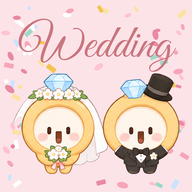
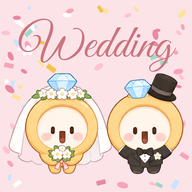
신부 반지링 베일 잘림 수정
Claude-Session: https://claude.ai/code/session_011nUT2jvPTHRHkT69G7nQeK

Changed region(s): [[0.0312, 0.375, 0.9688, 0.9062]]

diff --git a/assets/index-pwa-CAAoumdT.js b/assets/index-pwa-CAAoumdT.js
@@ -1,4 +1,4 @@
-(function(){let e=document.createElement(`link`).relList;if(e&&e.supports&&e.supports(`modulepreload`))return;for(let e of document.querySelectorAll(`link[rel="modulepreload"]`))n(e);new MutationObserver(e=>{for(let t of e)if(t.type===`childList`)for(let e of t.addedNodes)e.tagName===`LINK`&&e.rel===`modulepreload`&&n(e)}).observe(document,{childList:!0,subtree:!0});function t(e){let t={};return e.integrity&&(t.integrity=e.integrity),e.referrerPolicy&&(t.referrerPolicy=e.referrerPolicy),t.credentials=e.crossOrigin===`use-credentials`?`include`:e.crossOrigin===`anonymous`?`omit`:`same-origin`,t}function n(e){if(e.ep)return;e.ep=!0;let n=t(e);fetch(e.href,n)}})();var e=new URL(`hi-Cj1TeUIU.webp`,import.meta.url).href,t=new URL(`cheer-CTkT-2d9.webp`,import.meta.url).href,n=new URL(`sleep-D8qlL5Zz.webp`,import.meta.url).href,r=new URL(`think-CUr7WjlF.webp`,import.meta.url).href,i=new URL(`bride-CEqld_eg.webp`,import.meta.url).href,a=new URL(`groom-CQfb-5fD.webp`,import.meta.url).href,o=new URL(`wink-DknxS0_G.webp`,import.meta.url).href,s=new URL(`heart-D_9B21rj.webp`,import.meta.url).href,c=new URL(`wave-2UFk1o7h.webp`,import.meta.url).href,l=new URL(`splash-art-UoKu1fw6.webp`,import.meta.url).href,u={hi:e,cheer:t,sleep:n,think:r,bride:i,groom:a,wink:o,heart:s,wave:c},d=[{id:`mint`,name:`민트`,c:`#17A88A`,d:`#4FD1B2`,soft:`#E3F6F1`,dsoft:`#173A33`},{id:`coral`,name:`코랄`,c:`#EE7240`,d:`#FF9D6E`,soft:`#FDEEE6`,dsoft:`#43281C`},{id:`rose`,name:`로즈`,c:`#D45C7E`,d:`#F08DAA`,soft:`#FBEAEF`,dsoft:`#45263A`},{id:`blue`,name:`블루`,c:`#3E72EC`,d:`#7FA5FF`,soft:`#E8EFFD`,dsoft:`#1E2B4A`},{id:`lavender`,name:`라벤더`,c:`#7C62D6`,d:`#B3A0F5`,soft:`#EFEBFB`,dsoft:`#2E2747`},{id:`black`,name:`블랙`,c:`#26262B`,d:`#EDEDF0`,soft:`#EFEFF1`,dsoft:`#2C2C31`}],f=`wn-accent`;function p(){try{return localStorage.getItem(f)||`mint`}catch{return`mint`}}var m=()=>{let e=document.documentElement.dataset.theme;return e?e===`dark`:matchMedia(`(prefers-color-scheme: dark)`).matches};function h(e=p(),t=!1){let n=d.find(t=>t.id===e)||d[0],r=document.documentElement,i=m(),a=i?n.d:n.c;r.dataset.accent=n.id,r.style.setProperty(`--accent`,a),r.style.setProperty(`--accent-soft`,i?n.dsoft:n.soft),r.style.setProperty(`--on-accent`,i?`#111`:`#fff`),r.style.setProperty(`--grad`,a);for(let e in u)r.style.setProperty(`--m-`+e,`url("${u[e]}")`);if(t)try{localStorage.setItem(f,n.id)}catch{}let o=document.querySelector(`meta[name="theme-color"]:not([media])`)||Object.assign(document.head.appendChild(document.createElement(`meta`)),{name:`theme-color`});return o.content=i?`#121214`:`#FFFFFF`,n}try{matchMedia(`(prefers-color-scheme: dark)`).addEventListener(`change`,()=>h())}catch{}var g=(e,t=`mascot`)=>`<span class="${t} m-${e}" aria-hidden="true"></span>`,_=[`잘했어요!`,`하나 끝!`,`반짝반짝 해냈어요`,`결혼식에 한 걸음 더`,`오늘도 수고했어요`],ee;function v(e,t=!1){document.querySelector(`.cheer`)?.remove(),clearTimeout(ee);let n=document.createElement(`div`);n.className=`cheer`,n.setAttribute(`role`,`status`),n.innerHTML=`${g(`cheer`)}<b>${e||_[Math.floor(Math.random()*_.length)]}</b>`,document.body.appendChild(n),ee=setTimeout(()=>n.remove(),t?2600:1900),T(t),D(t)}var y=(e,t)=>{try{let n=localStorage.getItem(e);return n===null?t:n===`1`}catch{return t}},b={get confetti(){return y(`wn-fx`,!0)},set confetti(e){try{localStorage.setItem(`wn-fx`,e?`1`:`0`)}catch{}},get sound(){return y(`wn-sound`,!0)},set sound(e){try{localStorage.setItem(`wn-sound`,e?`1`:`0`)}catch{}}},x=()=>matchMedia(`(prefers-reduced-motion: reduce)`).matches,S,C,w=[];function T(e=!1){if(!b.confetti||x())return;S||(S=document.createElement(`canvas`),S.className=`fx-canvas`,S.setAttribute(`aria-hidden`,`true`)),S.isConnected||document.body.appendChild(S);let t=Math.min(2,devicePixelRatio||1),n=innerWidth,r=innerHeight;S.width=n*t,S.height=r*t;let i=S.getContext(`2d`);i.setTransform(t,0,0,t,0,0);let a=[`#F6A5B8`,`#FFD1DC`,`#F4C451`,`#FFFFFF`,getComputedStyle(document.documentElement).getPropertyValue(`--accent`).trim()||`#17A88A`,`#C9E4FF`,`#FBE2A4`],o=e?150:70;for(let t=0;t<o;t++){let i=t%2==0,o=i?-10:n+10,s=r*(.72+Math.random()*.12),c=Math.PI/2*-1+(i?1:-1)*(.25+Math.random()*.55),l=(e?15:12)+Math.random()*(e?9:7),u=Math.random()<.38?`petal`:Math.random()<.5?`rect`:`dot`;w.push({x:o,y:s,vx:Math.cos(c)*l,vy:Math.sin(c)*l,r:Math.random()*Math.PI*2,vr:(Math.random()-.5)*.3,s:u===`petal`?7+Math.random()*6:4+Math.random()*4,c:u===`petal`?[`#F6A5B8`,`#FFD1DC`,`#FFC2D1`,`#FFFFFF`][t%4]:a[t%a.length],k:u,t:0,life:110+Math.random()*60,sw:Math.random()*6})}if(C)return;let s=()=>{i.clearRect(0,0,n,r),w=w.filter(e=>e.t<e.life&&e.y<r+40);for(let e of w)e.t++,e.vy+=.32,e.vx*=.985,e.vy*=.985,e.k===`petal`&&(e.vy=Math.min(e.vy,2.2),e.x+=Math.sin((e.t+e.sw*10)/12)*.9),e.x+=e.vx,e.y+=e.vy,e.r+=e.vr,i.save(),i.globalAlpha=Math.min(1,(e.life-e.t)/30),i.translate(e.x,e.y),i.rotate(e.r),i.fillStyle=e.c,e.k===`petal`?(i.beginPath(),i.ellipse(0,0,e.s,e.s*.55,0,0,Math.PI*2),i.fill(),i.fillStyle=`rgba(255,255,255,.5)`,i.beginPath(),i.ellipse(-e.s*.3,-e.s*.1,e.s*.35,e.s*.15,0,0,Math.PI*2),i.fill()):e.k===`rect`?(i.scale(1,Math.cos(e.t/5)),i.fillRect(-e.s/2,-e.s*.8,e.s,e.s*1.6)):(i.beginPath(),i.arc(0,0,e.s/2,0,Math.PI*2),i.fill()),e.c===`#FFFFFF`&&(i.strokeStyle=`rgba(0,0,0,.08)`,i.lineWidth=1,i.stroke()),i.restore();w.length?C=requestAnimationFrame(s):(C=null,i.clearRect(0,0,n,r),S.remove())};C=requestAnimationFrame(s)}var E;function D(e=!1){if(b.sound)try{E=E||new(window.AudioContext||window.webkitAudioContext),E.state===`suspended`&&E.resume();let t=E.currentTime+.01,n=e?[[523,0,.12],[659,.12,.12],[784,.24,.12],[1047,.38,.5]]:[[784,0,.1],[1047,.1,.3]],r=E.createGain();r.gain.value=.12,r.connect(E.destination);for(let[e,i,a]of n)for(let[n,o,s]of[[`triangle`,1,1],[`sine`,2,.3]]){let c=E.createOscillator(),l=E.createGain();c.type=n,c.frequency.value=e*o,l.gain.setValueAtTime(0,t+i),l.gain.linearRampToValueAtTime(s,t+i+.015),l.gain.exponentialRampToValueAtTime(.001,t+i+a+.25),c.connect(l),l.connect(r),c.start(t+i),c.stop(t+i+a+.3)}}catch{}}h();function O({title:e,sub:t=``,pose:n=`hi`,button:r=`시작하기`,party:i=!1}={}){return new Promise(n=>{let a=document.createElement(`div`);a.className=`splash`,a.setAttribute(`role`,`dialog`),a.setAttribute(`aria-label`,e.replace(/<[^>]+>/g,` `)),a.innerHTML=`<i class="sp-s a">✦</i><i class="sp-s b">♥</i><i class="sp-s c">✦</i><i class="sp-s d">♥</i><i class="sp-s e">✦</i>
+(function(){let e=document.createElement(`link`).relList;if(e&&e.supports&&e.supports(`modulepreload`))return;for(let e of document.querySelectorAll(`link[rel="modulepreload"]`))n(e);new MutationObserver(e=>{for(let t of e)if(t.type===`childList`)for(let e of t.addedNodes)e.tagName===`LINK`&&e.rel===`modulepreload`&&n(e)}).observe(document,{childList:!0,subtree:!0});function t(e){let t={};return e.integrity&&(t.integrity=e.integrity),e.referrerPolicy&&(t.referrerPolicy=e.referrerPolicy),t.credentials=e.crossOrigin===`use-credentials`?`include`:e.crossOrigin===`anonymous`?`omit`:`same-origin`,t}function n(e){if(e.ep)return;e.ep=!0;let n=t(e);fetch(e.href,n)}})();var e=new URL(`hi-Cj1TeUIU.webp`,import.meta.url).href,t=new URL(`cheer-CTkT-2d9.webp`,import.meta.url).href,n=new URL(`sleep-D8qlL5Zz.webp`,import.meta.url).href,r=new URL(`think-CUr7WjlF.webp`,import.meta.url).href,i=new URL(`bride-Bi8AItBi.webp`,import.meta.url).href,a=new URL(`groom-CQfb-5fD.webp`,import.meta.url).href,o=new URL(`wink-DknxS0_G.webp`,import.meta.url).href,s=new URL(`heart-D_9B21rj.webp`,import.meta.url).href,c=new URL(`wave-2UFk1o7h.webp`,import.meta.url).href,l=new URL(`splash-art-DpgewMiz.webp`,import.meta.url).href,u={hi:e,cheer:t,sleep:n,think:r,bride:i,groom:a,wink:o,heart:s,wave:c},d=[{id:`mint`,name:`민트`,c:`#17A88A`,d:`#4FD1B2`,soft:`#E3F6F1`,dsoft:`#173A33`},{id:`coral`,name:`코랄`,c:`#EE7240`,d:`#FF9D6E`,soft:`#FDEEE6`,dsoft:`#43281C`},{id:`rose`,name:`로즈`,c:`#D45C7E`,d:`#F08DAA`,soft:`#FBEAEF`,dsoft:`#45263A`},{id:`blue`,name:`블루`,c:`#3E72EC`,d:`#7FA5FF`,soft:`#E8EFFD`,dsoft:`#1E2B4A`},{id:`lavender`,name:`라벤더`,c:`#7C62D6`,d:`#B3A0F5`,soft:`#EFEBFB`,dsoft:`#2E2747`},{id:`black`,name:`블랙`,c:`#26262B`,d:`#EDEDF0`,soft:`#EFEFF1`,dsoft:`#2C2C31`}],f=`wn-accent`;function p(){try{return localStorage.getItem(f)||`mint`}catch{return`mint`}}var m=()=>{let e=document.documentElement.dataset.theme;return e?e===`dark`:matchMedia(`(prefers-color-scheme: dark)`).matches};function h(e=p(),t=!1){let n=d.find(t=>t.id===e)||d[0],r=document.documentElement,i=m(),a=i?n.d:n.c;r.dataset.accent=n.id,r.style.setProperty(`--accent`,a),r.style.setProperty(`--accent-soft`,i?n.dsoft:n.soft),r.style.setProperty(`--on-accent`,i?`#111`:`#fff`),r.style.setProperty(`--grad`,a);for(let e in u)r.style.setProperty(`--m-`+e,`url("${u[e]}")`);if(t)try{localStorage.setItem(f,n.id)}catch{}let o=document.querySelector(`meta[name="theme-color"]:not([media])`)||Object.assign(document.head.appendChild(document.createElement(`meta`)),{name:`theme-color`});return o.content=i?`#121214`:`#FFFFFF`,n}try{matchMedia(`(prefers-color-scheme: dark)`).addEventListener(`change`,()=>h())}catch{}var g=(e,t=`mascot`)=>`<span class="${t} m-${e}" aria-hidden="true"></span>`,_=[`잘했어요!`,`하나 끝!`,`반짝반짝 해냈어요`,`결혼식에 한 걸음 더`,`오늘도 수고했어요`],ee;function v(e,t=!1){document.querySelector(`.cheer`)?.remove(),clearTimeout(ee);let n=document.createElement(`div`);n.className=`cheer`,n.setAttribute(`role`,`status`),n.innerHTML=`${g(`cheer`)}<b>${e||_[Math.floor(Math.random()*_.length)]}</b>`,document.body.appendChild(n),ee=setTimeout(()=>n.remove(),t?2600:1900),T(t),D(t)}var y=(e,t)=>{try{let n=localStorage.getItem(e);return n===null?t:n===`1`}catch{return t}},b={get confetti(){return y(`wn-fx`,!0)},set confetti(e){try{localStorage.setItem(`wn-fx`,e?`1`:`0`)}catch{}},get sound(){return y(`wn-sound`,!0)},set sound(e){try{localStorage.setItem(`wn-sound`,e?`1`:`0`)}catch{}}},x=()=>matchMedia(`(prefers-reduced-motion: reduce)`).matches,S,C,w=[];function T(e=!1){if(!b.confetti||x())return;S||(S=document.createElement(`canvas`),S.className=`fx-canvas`,S.setAttribute(`aria-hidden`,`true`)),S.isConnected||document.body.appendChild(S);let t=Math.min(2,devicePixelRatio||1),n=innerWidth,r=innerHeight;S.width=n*t,S.height=r*t;let i=S.getContext(`2d`);i.setTransform(t,0,0,t,0,0);let a=[`#F6A5B8`,`#FFD1DC`,`#F4C451`,`#FFFFFF`,getComputedStyle(document.documentElement).getPropertyValue(`--accent`).trim()||`#17A88A`,`#C9E4FF`,`#FBE2A4`],o=e?150:70;for(let t=0;t<o;t++){let i=t%2==0,o=i?-10:n+10,s=r*(.72+Math.random()*.12),c=Math.PI/2*-1+(i?1:-1)*(.25+Math.random()*.55),l=(e?15:12)+Math.random()*(e?9:7),u=Math.random()<.38?`petal`:Math.random()<.5?`rect`:`dot`;w.push({x:o,y:s,vx:Math.cos(c)*l,vy:Math.sin(c)*l,r:Math.random()*Math.PI*2,vr:(Math.random()-.5)*.3,s:u===`petal`?7+Math.random()*6:4+Math.random()*4,c:u===`petal`?[`#F6A5B8`,`#FFD1DC`,`#FFC2D1`,`#FFFFFF`][t%4]:a[t%a.length],k:u,t:0,life:110+Math.random()*60,sw:Math.random()*6})}if(C)return;let s=()=>{i.clearRect(0,0,n,r),w=w.filter(e=>e.t<e.life&&e.y<r+40);for(let e of w)e.t++,e.vy+=.32,e.vx*=.985,e.vy*=.985,e.k===`petal`&&(e.vy=Math.min(e.vy,2.2),e.x+=Math.sin((e.t+e.sw*10)/12)*.9),e.x+=e.vx,e.y+=e.vy,e.r+=e.vr,i.save(),i.globalAlpha=Math.min(1,(e.life-e.t)/30),i.translate(e.x,e.y),i.rotate(e.r),i.fillStyle=e.c,e.k===`petal`?(i.beginPath(),i.ellipse(0,0,e.s,e.s*.55,0,0,Math.PI*2),i.fill(),i.fillStyle=`rgba(255,255,255,.5)`,i.beginPath(),i.ellipse(-e.s*.3,-e.s*.1,e.s*.35,e.s*.15,0,0,Math.PI*2),i.fill()):e.k===`rect`?(i.scale(1,Math.cos(e.t/5)),i.fillRect(-e.s/2,-e.s*.8,e.s,e.s*1.6)):(i.beginPath(),i.arc(0,0,e.s/2,0,Math.PI*2),i.fill()),e.c===`#FFFFFF`&&(i.strokeStyle=`rgba(0,0,0,.08)`,i.lineWidth=1,i.stroke()),i.restore();w.length?C=requestAnimationFrame(s):(C=null,i.clearRect(0,0,n,r),S.remove())};C=requestAnimationFrame(s)}var E;function D(e=!1){if(b.sound)try{E=E||new(window.AudioContext||window.webkitAudioContext),E.state===`suspended`&&E.resume();let t=E.currentTime+.01,n=e?[[523,0,.12],[659,.12,.12],[784,.24,.12],[1047,.38,.5]]:[[784,0,.1],[1047,.1,.3]],r=E.createGain();r.gain.value=.12,r.connect(E.destination);for(let[e,i,a]of n)for(let[n,o,s]of[[`triangle`,1,1],[`sine`,2,.3]]){let c=E.createOscillator(),l=E.createGain();c.type=n,c.frequency.value=e*o,l.gain.setValueAtTime(0,t+i),l.gain.linearRampToValueAtTime(s,t+i+.015),l.gain.exponentialRampToValueAtTime(.001,t+i+a+.25),c.connect(l),l.connect(r),c.start(t+i),c.stop(t+i+a+.3)}}catch{}}h();function O({title:e,sub:t=``,pose:n=`hi`,button:r=`시작하기`,party:i=!1}={}){return new Promise(n=>{let a=document.createElement(`div`);a.className=`splash`,a.setAttribute(`role`,`dialog`),a.setAttribute(`aria-label`,e.replace(/<[^>]+>/g,` `)),a.innerHTML=`<i class="sp-s a">✦</i><i class="sp-s b">♥</i><i class="sp-s c">✦</i><i class="sp-s d">♥</i><i class="sp-s e">✦</i>
       <div class="sp-text"><h1>${e}</h1>${t?`<p>${t}</p>`:``}</div>
       <div class="sp-char"><img class="sp-art" src="${l}" alt=""></div>
       <button type="button" class="sp-btn">${r}</button>`,document.body.appendChild(a),requestAnimationFrame(()=>a.classList.add(`in`)),i&&setTimeout(()=>{T(!0),D(!0)},350),a.querySelector(`.sp-btn`).onclick=()=>{a.classList.remove(`in`),a.classList.add(`out`),setTimeout(()=>{a.remove(),n()},320)}})}var k=[`cats`,`items`,`events`,`guests`,`teams`,`meta`],A=`wedding-demo-v1`,te=e=>e==null?e:JSON.parse(JSON.stringify(e)),j=()=>{let e=``;for(let t of crypto.getRandomValues(new Uint8Array(20)))e+=`abcdefghijklmnopqrstuvwxyz0123456789`[t%36];return e},M=(e,t)=>Object.assign(Error(t||e),{code:e}),N=(e,t)=>e+`~`+t;async function ne(){let e=window.claude,t=await(e?.use?.(`db`)??null),n=await(e?.use?.(`user`)??null),r=n?await n.id():null,i=t&&r?`cloud`:`local`,a=i===`cloud`?t.collection(`data/users/`+r):null,o=Object.fromEntries(k.map(e=>[e,new Map])),s=Object.fromEntries(k.map(e=>[e,new Set])),c=new Map,l=!1,u=[],d=(e,t)=>{let n=o[e].get(t);return{id:t,exists:!!n,data:()=>n?te(n):void 0,metadata:{fromCache:!1,hasPendingWrites:!1}}},f=e=>{let t=[...o[e].entries()].sort((e,t)=>e[0]<t[0]?-1:1).map(([e,t])=>({id:e,exists:!0,data:()=>te(t)}));return{docs:t,size:t.length,empty:!t.length,docChanges:()=>[]}},p=null,m=new Set;function h(e,t){m.add(e+`/`+(t??``)),!p&&(p=Promise.resolve().then(()=>{p=null;let e=[...m];m.clear();for(let t of new Set(e.map(e=>e.split(`/`)[0])))for(let e of s[t])try{e(f(t))}catch(e){console.error(e)}for(let t of e){let e=c.get(t);if(e){let[n,r]=t.split(`/`);for(let t of e)try{t(d(n,r))}catch(e){console.error(e)}}}}))}let g=()=>{try{localStorage.setItem(A,JSON.stringify(Object.fromEntries(k.map(e=>[e,Object.fromEntries(o[e])]))))}catch{}},_=()=>{try{let e=JSON.parse(localStorage.getItem(A)||`{}`);for(let t of k)for(let[n,r]of Object.entries(e[t]||{}))o[t].set(n,r)}catch{}},ee=()=>{l=!0,u.splice(0).forEach(e=>e());for(let e of k)h(e)};async function v(e,t,n){if(i!==`cloud`)return g();try{let r=a.doc(N(e,t));n===void 0?await r.delete():await r.set({c:e,i:t,d:n})}catch(e){if(e?.code===`invalid_argument`||e?.code===`not_granted`||e?.code===`revoked`){i=`local`,g();return}throw M(`unavailable`,e?.message)}}async function y(e,t,n){if(!o[e])throw M(`invalid_argument`,`unknown collection `+e);let r=o[e].get(t);n===void 0?o[e].delete(t):o[e].set(t,n),h(e,t);try{await v(e,t,n)}catch(n){throw r===void 0?o[e].delete(t):o[e].set(t,r),h(e,t),n}}let b=(e,t)=>({id:t,path:e+`/`+t,async get(){return l||await new Promise(e=>u.push(e)),d(e,t)},set:n=>y(e,t,te(n)),update:n=>o[e].has(t)?y(e,t,{...o[e].get(t),...te(n)}):Promise.reject(M(`invalid_argument`)),delete:()=>y(e,t,void 0),onSnapshot(n){let r=e+`/`+t;return c.has(r)||c.set(r,new Set),c.get(r).add(n),l&&queueMicrotask(()=>n(d(e,t))),()=>c.get(r)?.delete(n)}}),x=e=>({path:e,doc:t=>b(e,t||j()),async add(t){let n=j();return await y(e,n,te(t)),b(e,n)},async get(){return l||await new Promise(e=>u.push(e)),f(e)},onSnapshot(t){return s[e].add(t),l&&queueMicrotask(()=>t(f(e))),()=>s[e].delete(t)}});return{get mode(){return i},doc(e){let[t,n]=String(e).split(`/`);return b(t,n)},collection:e=>x(e),newId:j,snapshotAll:()=>Object.fromEntries(k.map(e=>[e,Object.fromEntries(o[e])])),async bulkUpsert(e){for(let t of e)o[t.coll]?.set(t.id,te(t.data)),h(t.coll,t.id);if(i===`local`)return g();for(let t=0;t<e.length;t+=8)await Promise.all(e.slice(t,t+8).map(e=>v(e.coll,e.id,e.data)))},async clearAll(){let e=[];for(let t of k)for(let n of o[t].keys())e.push([t,n]);for(let e of k)o[e].clear();if(i===`local`)try{localStorage.removeItem(A)}catch{}else for(let t=0;t<e.length;t+=8)await Promise.all(e.slice(t,t+8).map(([e,t])=>a.doc(N(e,t)).delete().catch(()=>{})))},start(){return new Promise(e=>{if(i===`local`)return _(),ee(),e();let t=!0;a.onSnapshot(n=>{for(let e of k)o[e].clear();for(let e of n.docs){let t=e.data();t&&o[t.c]&&o[t.c].set(t.i,t.d)}if(t)t=!1,ee(),e();else for(let e of k)h(e)},()=>{i=`local`,_(),t&&(t=!1,ee(),e())}),setTimeout(()=>{t&&(t=!1,i=`local`,_(),ee(),e())},12e3)})}}}var re=[{id:`hall`,name:`웨딩홀`,desc:`전문 예식장 · 가장 일반적`,search:`웨딩홀`},{id:`hotel`,name:`호텔`,desc:`격식 있는 연회장`,search:`호텔 웨딩`},{id:`small`,name:`스몰·하우스`,desc:`100명 이하 · 공간 대관`,search:`스몰웨딩`},{id:`outdoor`,name:`야외·가든`,desc:`정원·루프탑 · 날씨 대비 필요`,search:`야외웨딩`},{id:`church`,name:`성당·교회`,desc:`종교 예식 · 피로연 별도`,search:`성당`}],ie=[`웨딩홀`,`호텔 웨딩`,`스몰웨딩`,`하우스웨딩`,`야외웨딩`,`성당`,`교회`,`상견례 식당`],ae=[`서울`,`경기`,`인천`,`부산`,`대구`,`광주`,`대전`,`울산`,`세종`,`강원`,`충북`,`충남`,`전북`,`전남`,`경북`,`경남`,`제주`],P={hall:{hall:45,sdm:12,photo:5,honeymoon:20,guestmgmt:5,etc:13},hotel:{hall:58,sdm:10,photo:4,honeymoon:15,guestmgmt:4,etc:9},small:{hall:30,sdm:15,photo:10,honeymoon:25,guestmgmt:5,etc:15},outdoor:{hall:38,sdm:13,photo:9,honeymoon:22,guestmgmt:5,etc:13},church:{hall:35,sdm:14,photo:7,honeymoon:24,guestmgmt:5,etc:15}},F={hall:`웨딩홀`,hotel:`호텔 연회장`,small:`스몰웨딩 공간`,outdoor:`야외 웨딩 장소`,church:`성당·교회 혼배`},oe=[{k:`parents`,t:`양가 부모님께 인사`,c:`etc`,off:420},{k:`meet-place`,t:`상견례 식당`,c:`etc`,off:410,v:1},{k:`meet`,t:`상견례`,c:`etc`,off:390,why:`보통 상견례 후 예식장을 잡아요. 식장을 먼저 잡는 커플도 있어요`},{k:`scale`,t:`예산·하객 규모 정하기`,c:`etc`,off:380,why:`예식장 크기와 식대가 여기서 정해져요`},{k:`planner`,t:`웨딩플래너`,c:`etc`,off:370,v:1,planner:!0,why:`플래너 제휴로 스드메·예복·한복 할인을 받을 수 있어요`},{k:`fair`,t:`웨딩박람회 다녀오기`,c:`hall`,off:370,planner:!1,why:`예식장·스드메 견적을 하루에 비교하기 좋아요`},{k:`church-ask`,t:`본당에 혼배 날짜 문의`,c:`hall`,off:400,only:[`church`],why:`인기 날짜는 빨리 차고, 교리 일정도 같이 확인해야 해요`},{k:`tour`,t:`예식장 투어 (3곳 이상)`,c:`hall`,off:350,skip:[`church`],why:`식대·보증인원·대관료·주차를 같은 기준으로 비교해요`},{k:`venue`,t:null,c:`hall`,off:330,v:1,why:`계약서에 식대·보증인원·위약금 조건을 꼭 적어 두세요`},{k:`reception`,t:`피로연 장소`,c:`hall`,off:300,v:1,only:[`church`],why:`혼배 후 식사 장소는 따로 예약해야 해요`},{k:`hotel-guar`,t:`보증인원·식대 협의`,c:`hall`,off:300,only:[`hotel`],why:`호텔은 보증인원이 크고 식대가 높아 협의 폭이 커요`},{k:`catering`,t:`케이터링 업체`,c:`hall`,off:180,v:1,only:[`small`,`outdoor`],why:`공간 대관이면 식사를 따로 준비해야 해요`},{k:`contract-check`,t:`계약서 위약금·추가금 조항 확인`,c:`etc`,off:320,planner:!1,why:`플래너 없이 계약할 땐 직접 챙겨야 해요`},{k:`honeymoon-pick`,t:`신혼여행지 결정`,c:`honeymoon`,off:300},{k:`sdm-quote`,t:`스드메 견적 3곳 비교`,c:`sdm`,off:300,planner:!1,why:`드레스 피팅비·헬퍼비 같은 추가금까지 비교해요`},{k:`sdm`,t:`스드메 패키지`,c:`sdm`,off:270,v:1},{k:`studio`,t:`웨딩촬영 스튜디오`,c:`photo`,off:240,v:1,skip:[`small`]},{k:`snap`,t:`본식 스냅`,c:`hall`,off:240,v:1},{k:`dvd`,t:`본식 DVD`,c:`hall`,off:240,v:1,skip:[`small`]},{k:`house`,t:`신혼집 알아보기`,c:`etc`,off:240},{k:`dress-tour`,t:`드레스 투어`,c:`sdm`,off:210},{k:`flight`,t:`항공권`,c:`honeymoon`,off:180,v:1},{k:`ring`,t:`웨딩링`,c:`etc`,off:180,v:1},{k:`gift-scope`,t:`예물·예단 범위 정하기`,c:`etc`,off:180},{k:`house-contract`,t:`신혼집 계약`,c:`etc`,off:180},{k:`stay`,t:`숙소`,c:`honeymoon`,off:150,v:1},{k:`passport`,t:`여권 유효기간 확인`,c:`honeymoon`,off:150},{k:`hanbok`,t:`혼주 한복`,c:`etc`,off:180,v:1},{k:`class`,t:`혼인 교리 수강`,c:`etc`,off:150,only:[`church`],why:`혼배 전에 이수해야 해요. 본당 일정을 확인하세요`},{k:`suit`,t:`예복`,c:`sdm`,off:180,v:1},{k:`skin`,t:`피부·체형 관리 시작`,c:`sdm`,off:120},{k:`appliance`,t:`신혼 가전·가구`,c:`etc`,off:120,v:1,why:`입주일에 맞춰 배송 날짜를 잡아요. 혼수 박람회·가전 패키지 할인도 비교해 보세요`},{k:`parents-hm`,t:`혼주 헤어·메이크업`,c:`hall`,off:120,v:1},{k:`helper`,t:`본식 헬퍼`,c:`hall`,off:120,v:1},{k:`flower`,t:`꽃장식 상담`,c:`hall`,off:120,v:1,only:[`hotel`,`small`,`outdoor`],why:`웨딩홀과 달리 꽃장식이 별도인 경우가 많아요`},{k:`rain`,t:`우천 대비 플랜 (실내 대체 공간)`,c:`hall`,off:120,only:[`outdoor`],why:`비 예보가 나와도 바로 옮길 수 있게 미리 정해 둬요`},{k:`guests`,t:`하객리스트 작성 및 확정`,c:`guestmgmt`,off:90},{k:`invite`,t:`청첩장`,c:`guestmgmt`,off:90,v:1},{k:`mc`,t:`사회·축가 섭외`,c:`hall`,off:90},{k:`decor`,t:`공간 데코·꽃`,c:`hall`,off:90,v:1,only:[`small`],why:`대관 공간은 분위기를 직접 꾸며야 해요`},{k:`rental`,t:`의자·음향·조명 대여`,c:`hall`,off:90,v:1,only:[`outdoor`,`small`]},{k:`mobile-invite`,t:`모바일 청첩장`,c:`guestmgmt`,off:60,v:1},{k:`second-dress`,t:`2부 드레스`,c:`sdm`,off:60,v:1,why:`대여·구매 중 고르고, 본식 드레스 셀렉 때 같이 보면 편해요`},{k:`video`,t:`식전·식중 영상`,c:`hall`,off:60,v:1,why:`직접 만들거나 업체에 맡겨요. 예식장에 재생 파일 형식·길이를 꼭 확인하세요`},{k:`pyebaek`,t:`폐백 준비`,c:`hall`,off:60,v:1,only:[`hall`,`hotel`],why:`폐백실 이용 여부와 폐백 음식·이바지 업체를 양가와 정해요`},{k:`dress-select`,t:`본식 드레스 셀렉`,c:`sdm`,off:60},{k:`bus`,t:`하객 버스 대절`,c:`guestmgmt`,off:60,v:1,minGuests:150,why:`지방 하객이 많으면 미리 예약해요`},{k:`church-docs`,t:`혼배 서류 준비`,c:`etc`,off:60,only:[`church`],why:`세례증명서 등 필요한 서류를 본당에 확인해요`},{k:`route`,t:`하객 동선·주차 확인`,c:`hall`,off:60,only:[`outdoor`,`small`]},{k:`invite-meet`,t:`청첩장 모임·발송`,c:`guestmgmt`,off:45},{k:`fitting`,t:`드레스 가봉`,c:`sdm`,off:35,why:`본식 드레스를 몸에 맞게 수선해요. 신발·속옷도 그날 신고 가요`},{k:`order`,t:`식순·입장 순서 확정`,c:`hall`,off:30},{k:`bouquet`,t:`부케·부토니에`,c:`hall`,off:30,v:1},{k:`return-gift`,t:`답례품`,c:`guestmgmt`,off:30,v:1},{k:`seat`,t:`하객 좌석 배치도`,c:`guestmgmt`,off:21,only:[`small`,`hotel`]},{k:`insurance`,t:`여행자보험 가입`,c:`honeymoon`,off:21},{k:`exchange`,t:`환전`,c:`honeymoon`,off:14},{k:`final`,t:`예식장 최종 미팅`,c:`hall`,off:14},{k:`bag`,t:`가방순이 섭외`,c:`hall`,off:14,skip:[`small`]},{k:`bus-notice`,t:`하객 버스 탑승 안내`,c:`guestmgmt`,off:7,minGuests:150},{k:`dayof`,t:`당일 준비물 챙기기`,c:`hall`,off:3},{k:`register`,t:`혼인신고`,c:`etc`,off:-14},{k:`thanks`,t:`감사 인사 연락`,c:`guestmgmt`,off:-7}],se=[[`12개월 이상 전`,365,1e9],[`6~12개월 전`,180,364],[`3~6개월 전`,90,179],[`1~3개월 전`,30,89],[`한 달 이내`,7,29],[`마지막 주`,0,6],[`결혼식 이후`,-1e9,-1]],ce=e=>(se.find(([,t,n])=>e>=t&&e<=n)||se[0])[0],le=e=>e.getFullYear()+`-`+String(e.getMonth()+1).padStart(2,`0`)+`-`+String(e.getDate()).padStart(2,`0`);function I(e={}){return{style:re.some(t=>t.id===e.style)?e.style:`hall`,planner:!!e.planner,guests:Math.max(0,Math.round(+e.guests||0)),budget:Math.max(0,Math.round(+e.budget||0)),sido:e.sido||``,sigungu:(e.sigungu||``).trim(),date:e.date||``}}function ue(e,t=le(new Date)){let n=I(e),r=[];for(let e of oe){if(e.only&&!e.only.includes(n.style)||e.skip&&e.skip.includes(n.style)||e.planner===!0&&!n.planner||e.planner===!1&&n.planner||e.minGuests&&n.guests&&n.guests<e.minGuests)continue;let i=e.k===`venue`?F[n.style]:e.t,a=``,o=!1;if(n.date){let r=new Date(n.date+`T00:00:00`);r.setDate(r.getDate()-e.off),a=le(r),a<t&&e.off>0&&(o=!0,a=t)}r.push({key:e.k,title:i,cat:e.c,vendor:!!e.v,off:e.off,phase:ce(e.off),due:a,late:o,why:e.why||``})}return r}function de(e){let t=I(e);if(!t.budget)return null;let n=P[t.style],r={},i=0,a=Object.keys(n);return a.forEach((e,o)=>{let s=o===a.length-1?t.budget-i:Math.round(t.budget*n[e]/100/1e5)*1e5;r[e]=Math.max(0,s),i+=r[e]}),r}var fe=e=>(re.find(t=>t.id===e)||re[0]).name,pe=e=>(re.find(t=>t.id===e)||re[0]).search,me=e=>[e?.sido,e?.sigungu].filter(Boolean).join(` `);function he(e){return{title:e.title,cat:e.cat,status:`시작 전`,due:e.due,deposit:0,balance:0,payDate:``,note:e.why,balancePaid:!1,rkey:e.key,...e.vendor?{kind:`vendor`}:{}}}var ge=`한국소비자원 참가격 결혼서비스 통계 (2026년 8월 기준)`,_e={gangnam:{label:`서울 강남`,meal:88e3,hall:758e4,decor:226e4,sdm:387e4},seoul:{label:`서울`,meal:8e4,hall:63e5,decor:0,sdm:35e5},metro:{label:`경기·인천`,meal:6e4,hall:35e5,decor:0,sdm:298e4},nonmetro:{label:`비수도권`,meal:6e4,hall:274e4,decor:18e4,sdm:284e4}};function ve(e){return e?.sido===`서울`?/강남/.test(e.sigungu||``)?`gangnam`:`seoul`:e?.sido===`경기`||e?.sido===`인천`?`metro`:e?.sido?`nonmetro`:`metro`}var ye={hall:200,hotel:200,small:70,outdoor:120,church:150};function be(e){let t=I(e),n=ve(t),r=_e[n],i=t.guests||ye[t.style],a=t.style===`hotel`?119e3:t.style===`small`||t.style===`church`?62e3:r.meal,o=[];o.push({key:`meal`,label:`식대 ${i}명 × ${(a/1e4).toLocaleString(`ko-KR`)}만 원`,amount:i*a,basis:t.style===`hotel`?`코스식 전국 평균`:t.style===`small`||t.style===`church`?`뷔페식 전국 평균`:`${r.label} 1인당 식대 중간값`}),t.style===`church`?o.push({key:`hall`,label:`성당·교회 사용료`,amount:0,basis:`본당·교회마다 달라서 직접 확인해 주세요`}):o.push({key:`hall`,label:t.style===`small`?`공간 대관료`:`대관료`,amount:r.hall,basis:`${r.label} 기준`}),r.decor&&o.push({key:`decor`,label:`기본 장식비`,amount:r.decor,basis:`${r.label} 기준`}),o.push({key:`sdm`,label:`스드메 (스튜디오·드레스·메이크업)`,amount:r.sdm,basis:`${{gangnam:`강남`,seoul:`서울 중간값`,metro:`전국 중간값`,nonmetro:`비수도권`}[n]} 기준`});let s=o.reduce((e,t)=>e+t.amount,0),c=o.filter(e=>e.key!==`sdm`).reduce((e,t)=>e+t.amount,0);return{tier:n,tierLabel:r.label,guests:i,meal:a,lines:o,total:s,budgets:{hall:c,sdm:r.sdm},source:ge,note:`신혼여행·예물·한복·청첩장 등은 공식 통계가 없어 빠져 있어요. 견적을 받으면 예산 탭에서 채워 주세요.`}}var xe=[[`hall`,`예식장`],[`sdm`,`스드메`],[`photo`,`웨딩촬영`],[`honeymoon`,`신혼여행`],[`guestmgmt`,`하객관리`],[`etc`,`기타`],[`extra`,`예외항목`]];function Se({p1:e,p2:t,date:n,time:r,place:i,profile:a}){let o=I({...a||{},date:n}),s=de(o)||be(o).budgets,c=[];xe.forEach(([e,t],n)=>c.push({coll:`cats`,id:e,data:{name:t,budget:s[e]||0,order:n+1}}));for(let e of ue(o))c.push({coll:`items`,id:`r-`+e.key,data:he(e)});if(n){let e=new Date(n+`T`+(r||`00:00`)+`:00`).toISOString();c.push({coll:`events`,id:`wedding`,data:{name:`결혼식`,at:e,allDay:!r,place:i||``,status:`시작 전`}})}return c.push({coll:`meta`,id:`settings`,data:{p1:e,p2:t,mealPrice:be(o).meal,minGuests:o.guests||0,profile:{...o,date:void 0}}}),c}var L=e=>String(e).padStart(2,`0`),R=(e,t)=>`${e<12?`오전`:`오후`} ${e%12==0?12:e%12}:${L(t)}`,Ce=[];for(let e=8;e<=21;e++)for(let t=0;t<60;t+=10)Ce.push(`${L(e)}:${L(t)}`);var we={from:`10:00`,to:`19:00`};function Te(e,t=``,{emptyLabel:n=`시간 미정`,from:r=`08:00`,to:i=`21:50`}={}){let a=(t||``).slice(0,5),o=Ce.filter(e=>e>=r&&e<=i),s=!a||o.includes(a),c=[`<option value="">${n}</option>`,...o.map(e=>`<option value="${e}" ${e===a?`selected`:``}>${R(+e.slice(0,2),+e.slice(3))}</option>`),`<option value="__custom">직접 입력…</option>`].join(``);return`<div class="tp ${s?``:`custom`}" data-tp="${e}">

diff --git a/index.html b/index.html
@@ -14,7 +14,7 @@
 <meta name="apple-mobile-web-app-title" content="아이두웨딩">
 <meta name="apple-mobile-web-app-status-bar-style" content="default">
 <meta name="mobile-web-app-capable" content="yes">
-  <script type="module" crossorigin src="./assets/index-pwa-D8MaFG6C.js"></script>
+  <script type="module" crossorigin src="./assets/index-pwa-CAAoumdT.js"></script>
   <link rel="stylesheet" crossorigin href="./assets/index-pwa-CYX3Pbk4.css">
 </head>
 <body>
